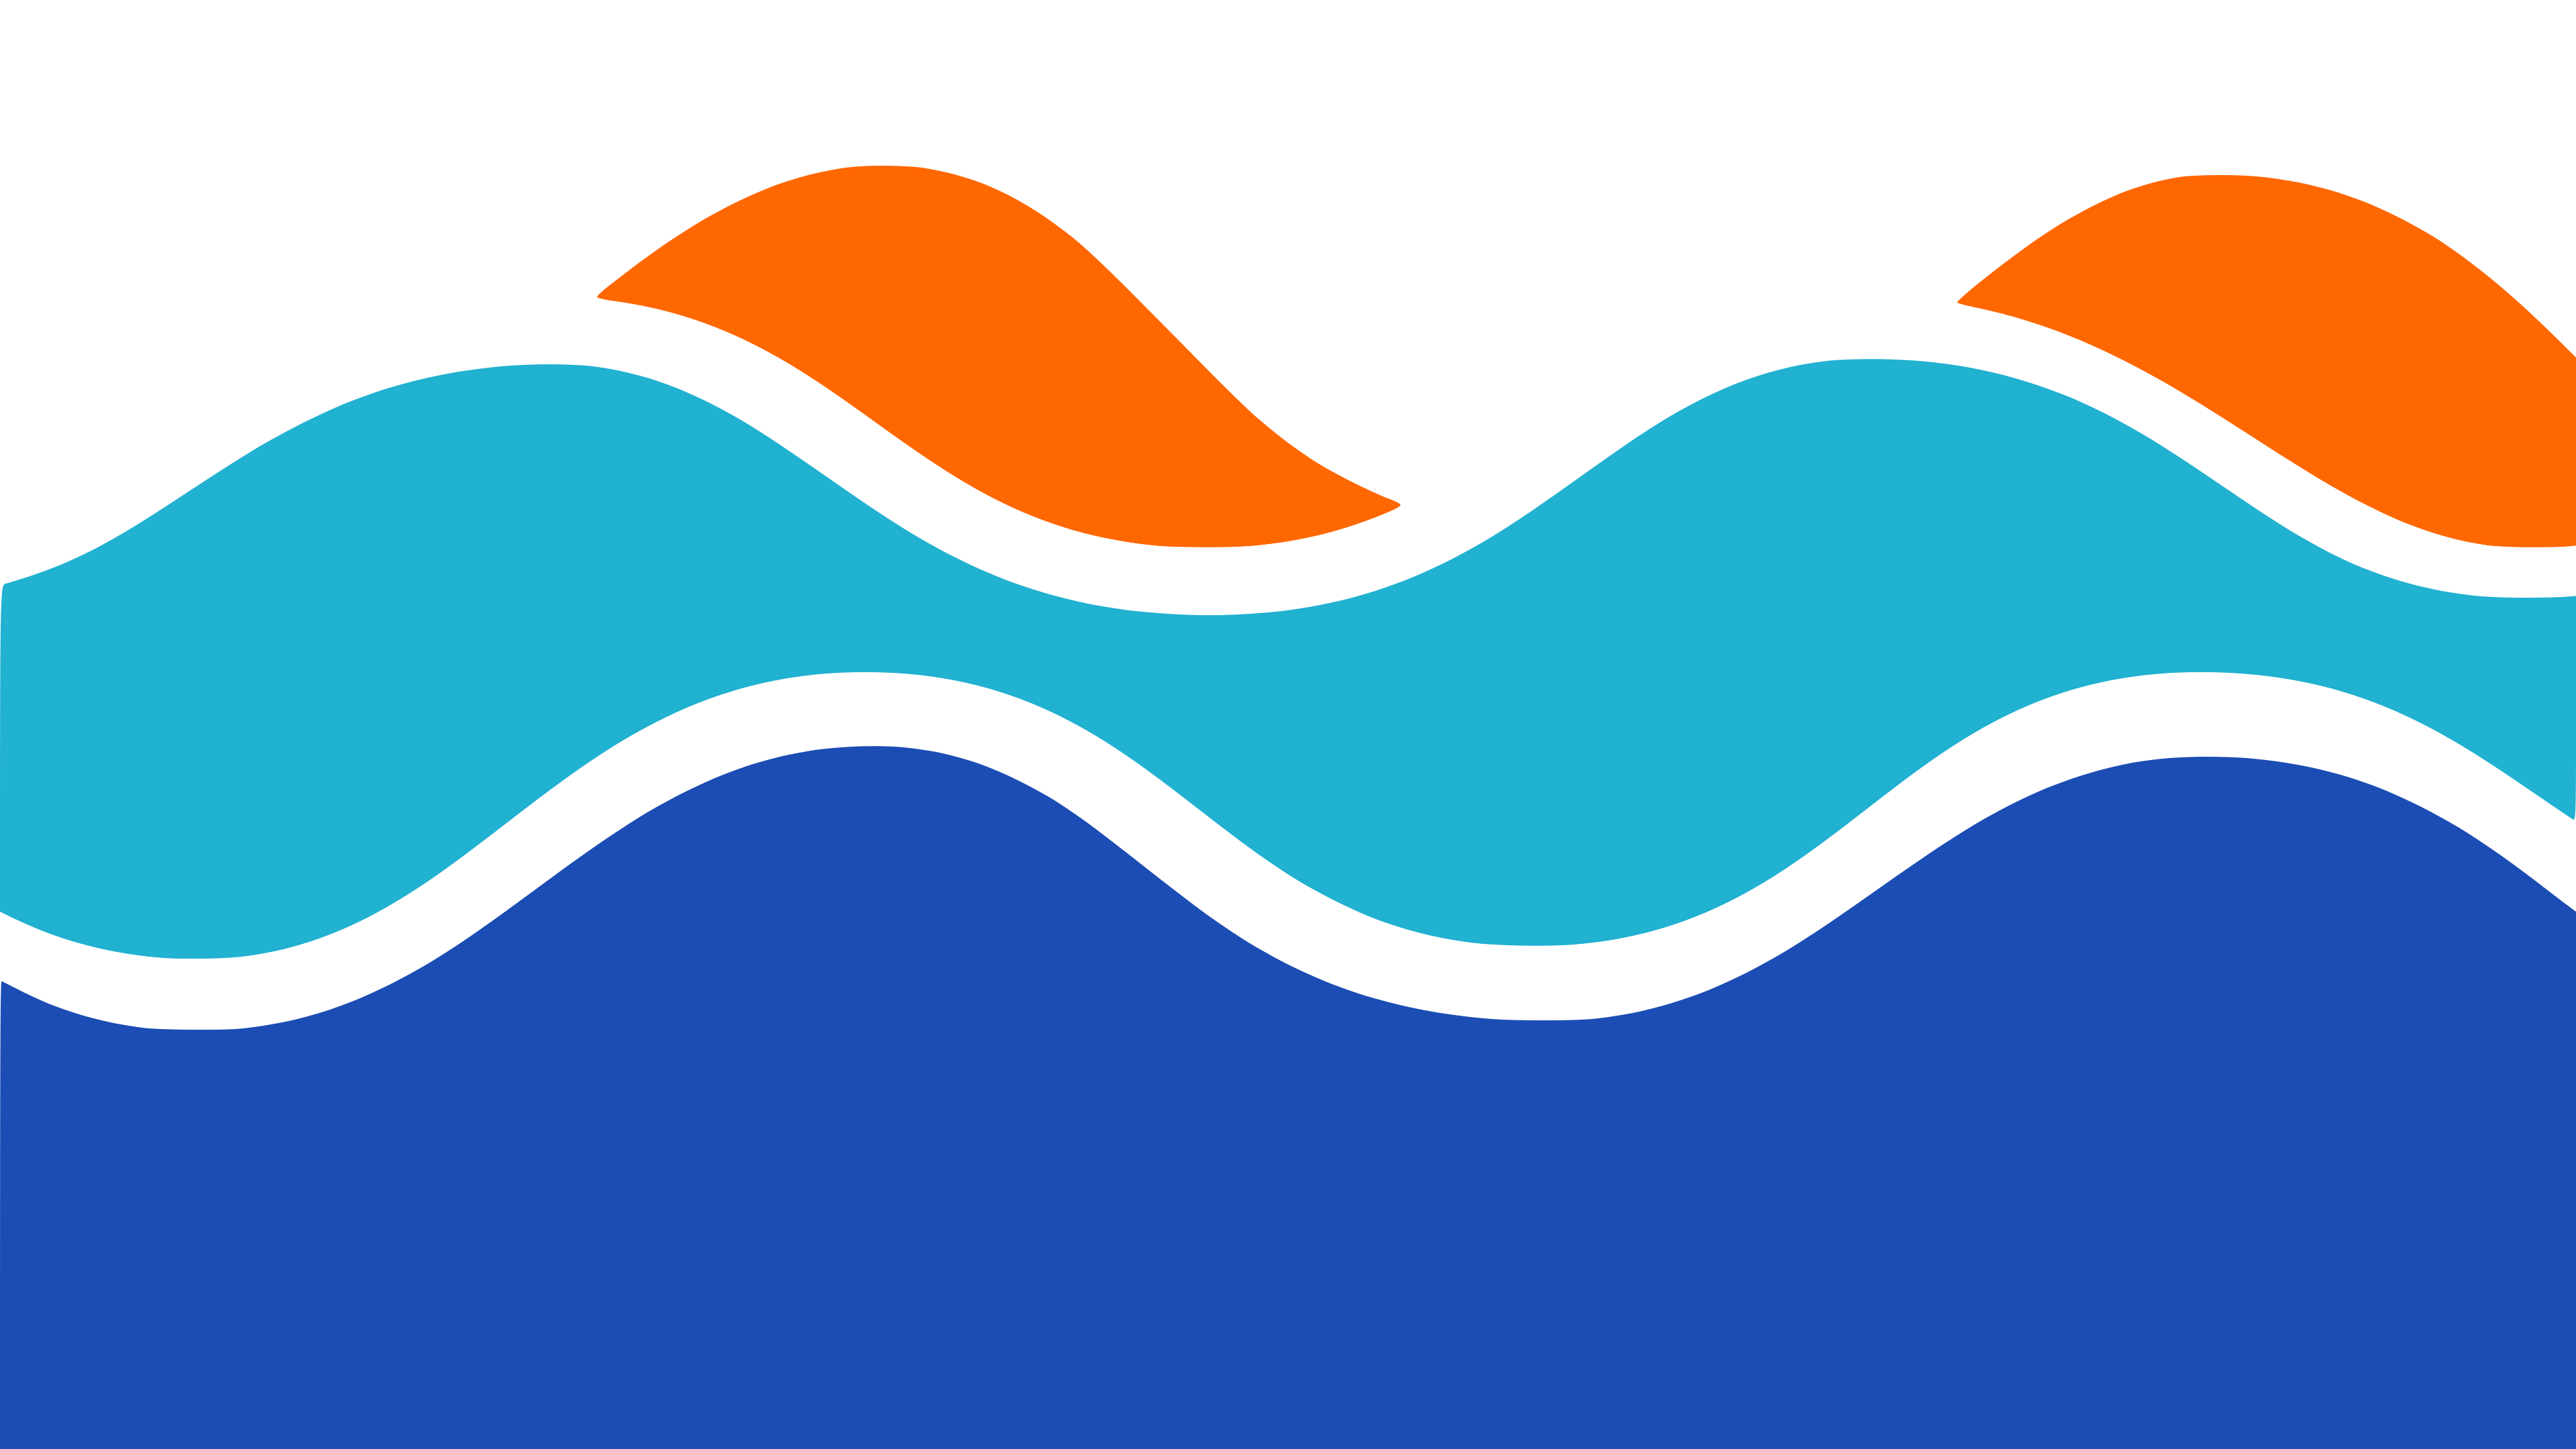
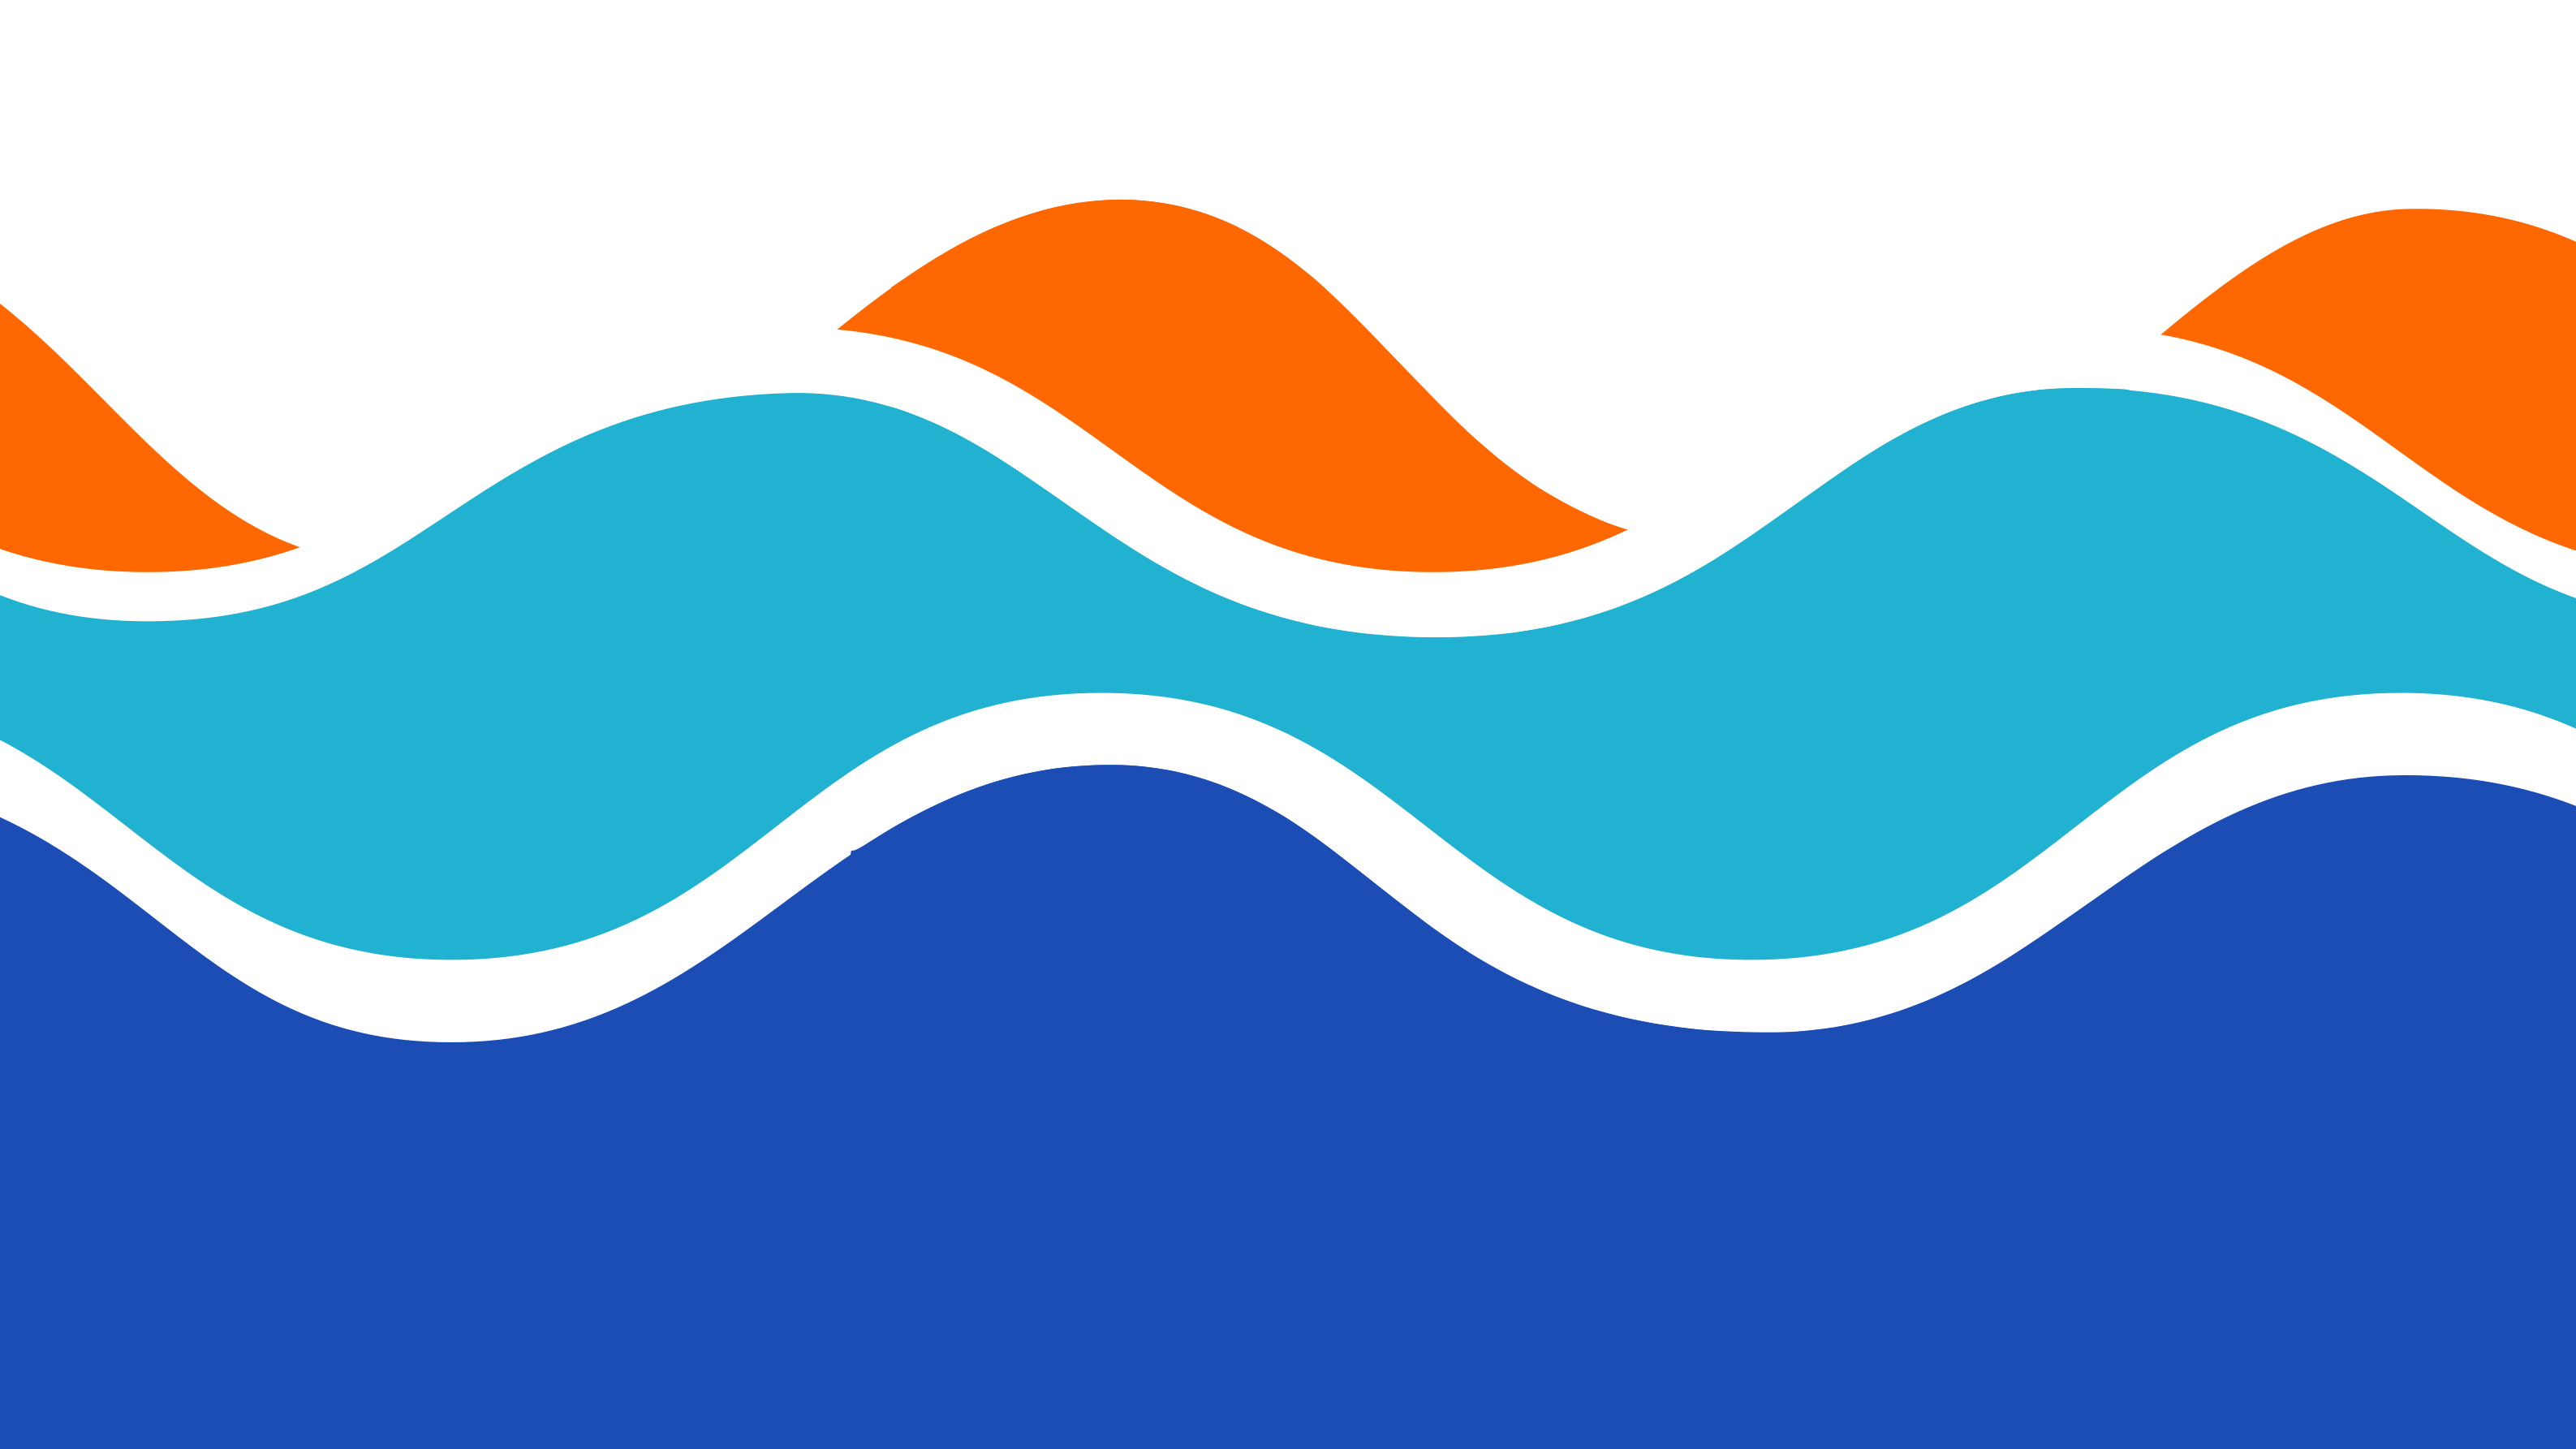
Various Updates to Website Content

Changed region(s): [[0.0, 0.0924, 1.0, 0.4622], [0.0, 0.4622, 1.0, 0.7395]]

diff --git a/content/english/blog/post-4.md b/content/english/blog/post-4.md
@@ -1,0 +1,40 @@
+---
+title: "PhD Positions in the Project"
+meta_title: ""
+description: "Two PhD positions are being advertised"
+date: 2026-06-03T10:00:00+13:00
+image: "/images/blog/place-holder.png"
+header_theme: "dark"
+categories: ["Positions"]
+tags: ["positions"]
+draft: true
+---
+
+The Te Moana Mahana project recently opened two PhD positions for aspiring doctoral fellows to pursue their research in physical oceanography and physical-biological interactions. The two positions are detailed below:
+
+#### 1. Aotearoa shelf seas ocean heatscape
+
+This PhD is funded by the Te Moana Mahana Project and will support the Ocean Heatscape Work Package. The PhD project would develop research looking to map and understand evolution in ocean temperatures in the shelf seas around New Zealand with opportunities to work with sampling, data analysis and modelling aspects but with an emphasis on new observational approaches using underwater gliders.
+
+The accepted candidate **will**:
+
+ - Be based in Earth Sciences New Zealand in Wellington, New Zealand and enrolled through the University of Auckland PhD programme in the Physics Department.
+ - Join a collaborative team of ocean and climate scientists.
+ - Gain access to a pool of oceanographic equipments and infrastructure, as well as supercomputing researces and simulation archives.
+ - Be funded for a full PhD scholarship of 3.5 years (fees + stipend, subject to funding conditions). Please note that the scholarship will not be extended beyond this.
+ - Be supervised by Prof. Craig Stevens and Assoc. Prof. Melissa Bowen.
+
+Please find more details in the [attached .pdf file](static/documents/phd-physics-oceanheat_V2.pdf). Please contact [Craig Stevens](mailto:[email redacted]) if you require more information.
+
+#### 2. Impact of extreme events on physical-biological interactions and primary productivity in Aotearoa's coastal ocean
+
+This PhD is funded by the Te Moana Mahana Project and will support the activities of the Ocean Impacts Work Package. The PhD project will develop research to understand the impact of exteme weather and ocean events on ocean physical-biological coupling in two coastal areas, the Hauraki Gulf Tīkapa Moana Te Moananui a Toi and the Otago Shelf. 
+
+The accepted candidate **will**:
+
+ - Join a collaborative, trans-institutional team of ocean and climate scientists working across observation and modelling over a range of scales relating to New Zealand's coastal oceans.
+ - Gain access to a pool of oceanographc equipment and infrastructure as well as supercomputing resources and simulation archives.
+ - Be funded for a full PhD scholarship of 3.5 years (fees + stipend, subject to funding conditions). Please note that the scholarship will not be extended beyond this.
+ - Be supervised by Dr. Alice Della Penna, Assoc. Prof. Melissa Bowen, Dr. Robert Smith at the University of Otago, and Dr. Charine Collins (Earth Sciences New Zealand).
+
+Please find more details in the [attached .pdf file](static/documents/phd-phybio_MBIE_v2.pdf). Please contact [Dr. Alice Della Penna](mailto:[email redacted]) if you requpre more information.

diff --git a/content/english/authors/alain-de-verneil.md b/content/english/authors/alain-de-verneil.md
@@ -3,7 +3,7 @@ title: "Alain de Verneil"
 last_name: "de Verneil"
 designation: "Key Researcher"
 user_groups: "Key Researchers"
-image: "images/team/inconnu.png"
+image: "images/team/alain-de-verneil.jpg"
 social:
   - icon: "fa-solid fa-book-open"
     link: "https://niwa.co.nz/people/alain-de-verneil"